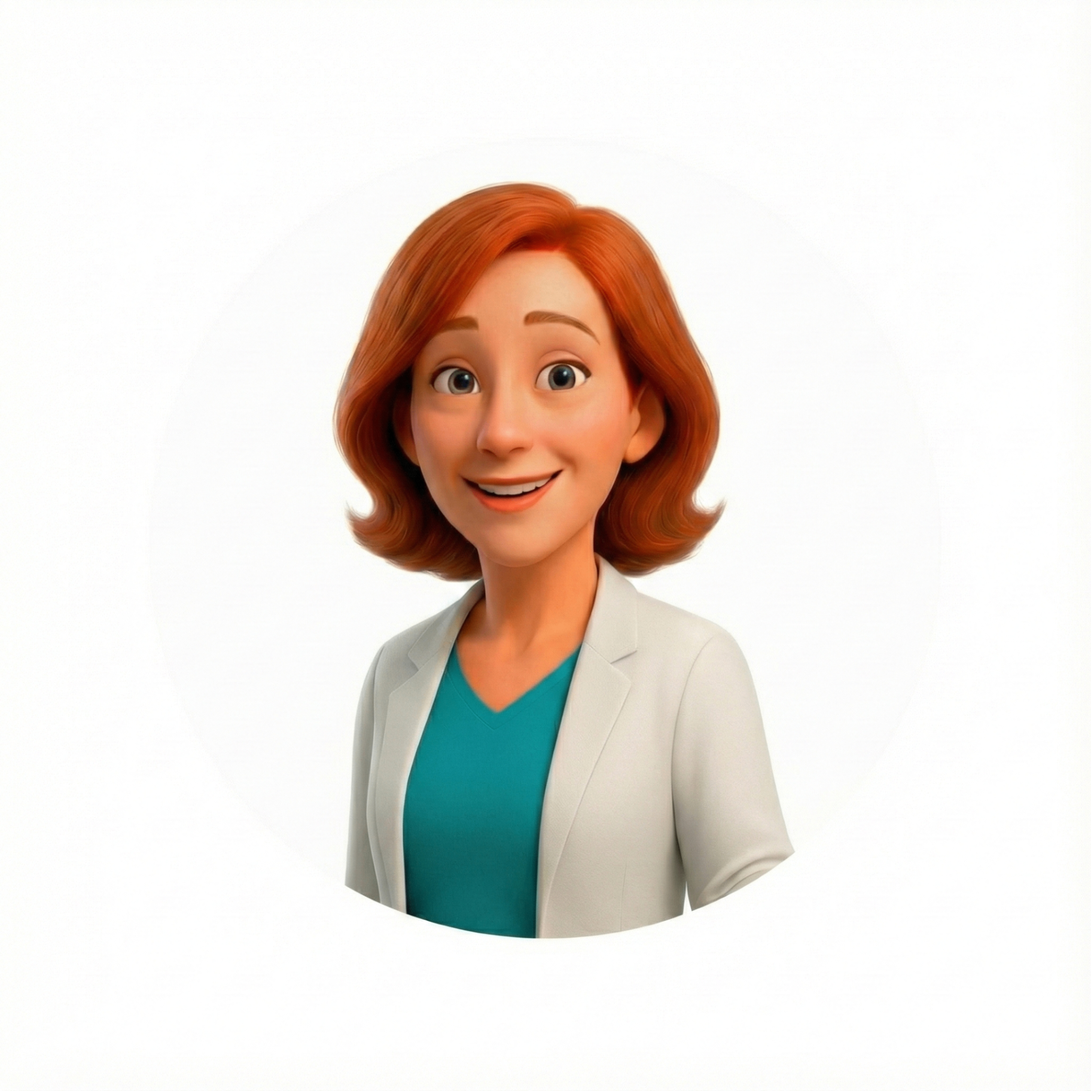
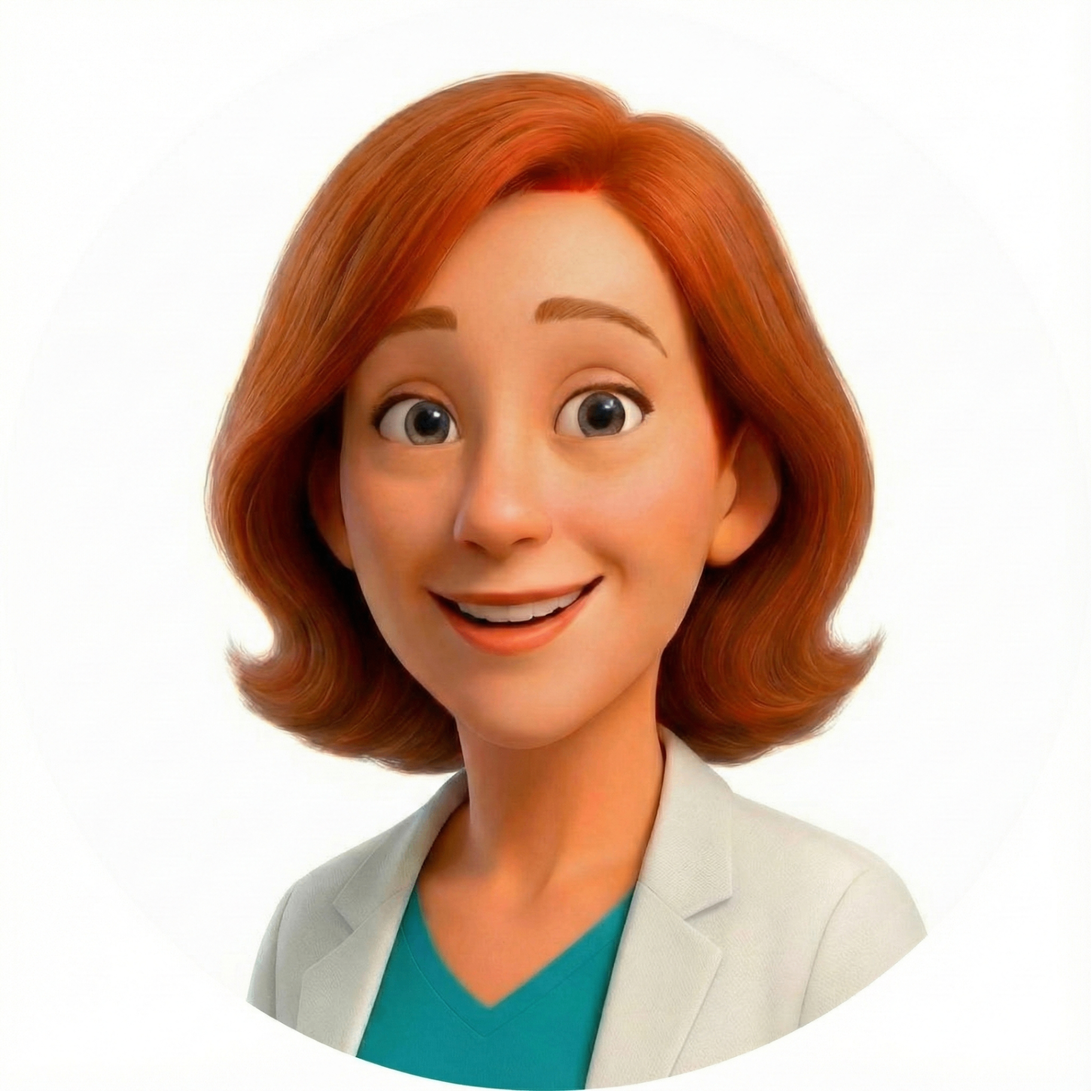
Changes

diff --git a/src/pages/Chat.tsx b/src/pages/Chat.tsx
@@ -116,26 +116,24 @@ const Chat = () => {
 
   const messagesEndRef = useRef<HTMLDivElement | null>(null);
 
-  // IMPORTANTE: los archivos de imagen están cruzados, así que mapeamos manualmente
-  // para que cada avatar muestre su foto correcta.
   const avatarOptions: AvatarPillAvatar[] = useMemo(
     () => [
       {
         id: 'TINO',
         name: 'TINO',
-        image: romaAvatar, // archivo de ROMA contiene la foto de TINO
+        image: tinoAvatar,
         accentClass: 'ring-tino',
       },
       {
         id: 'ZAHIA',
         name: 'ZAHIA',
-        image: tinoAvatar, // archivo de TINO contiene la foto de ZAHIA
+        image: zahiaAvatar,
         accentClass: 'ring-zahia',
       },
       {
         id: 'ROMA',
         name: 'ROMA',
-        image: zahiaAvatar, // archivo de ZAHIA contiene la foto de ROMA
+        image: romaAvatar,
         accentClass: 'ring-roma',
       },
     ],
@@ -374,15 +372,14 @@ const Chat = () => {
   };
 
   const getAvatarImage = (avatar: AvatarId) => {
-    // Mismo mapeo cruzado que en avatarOptions para mantener consistencia
     switch (avatar) {
       case 'TINO':
-        return romaAvatar; // foto correcta de TINO
+        return tinoAvatar;
       case 'ZAHIA':
-        return tinoAvatar; // foto correcta de ZAHIA
+        return zahiaAvatar;
       case 'ROMA':
       default:
-        return zahiaAvatar; // foto correcta de ROMA
+        return romaAvatar;
     }
   };
 
